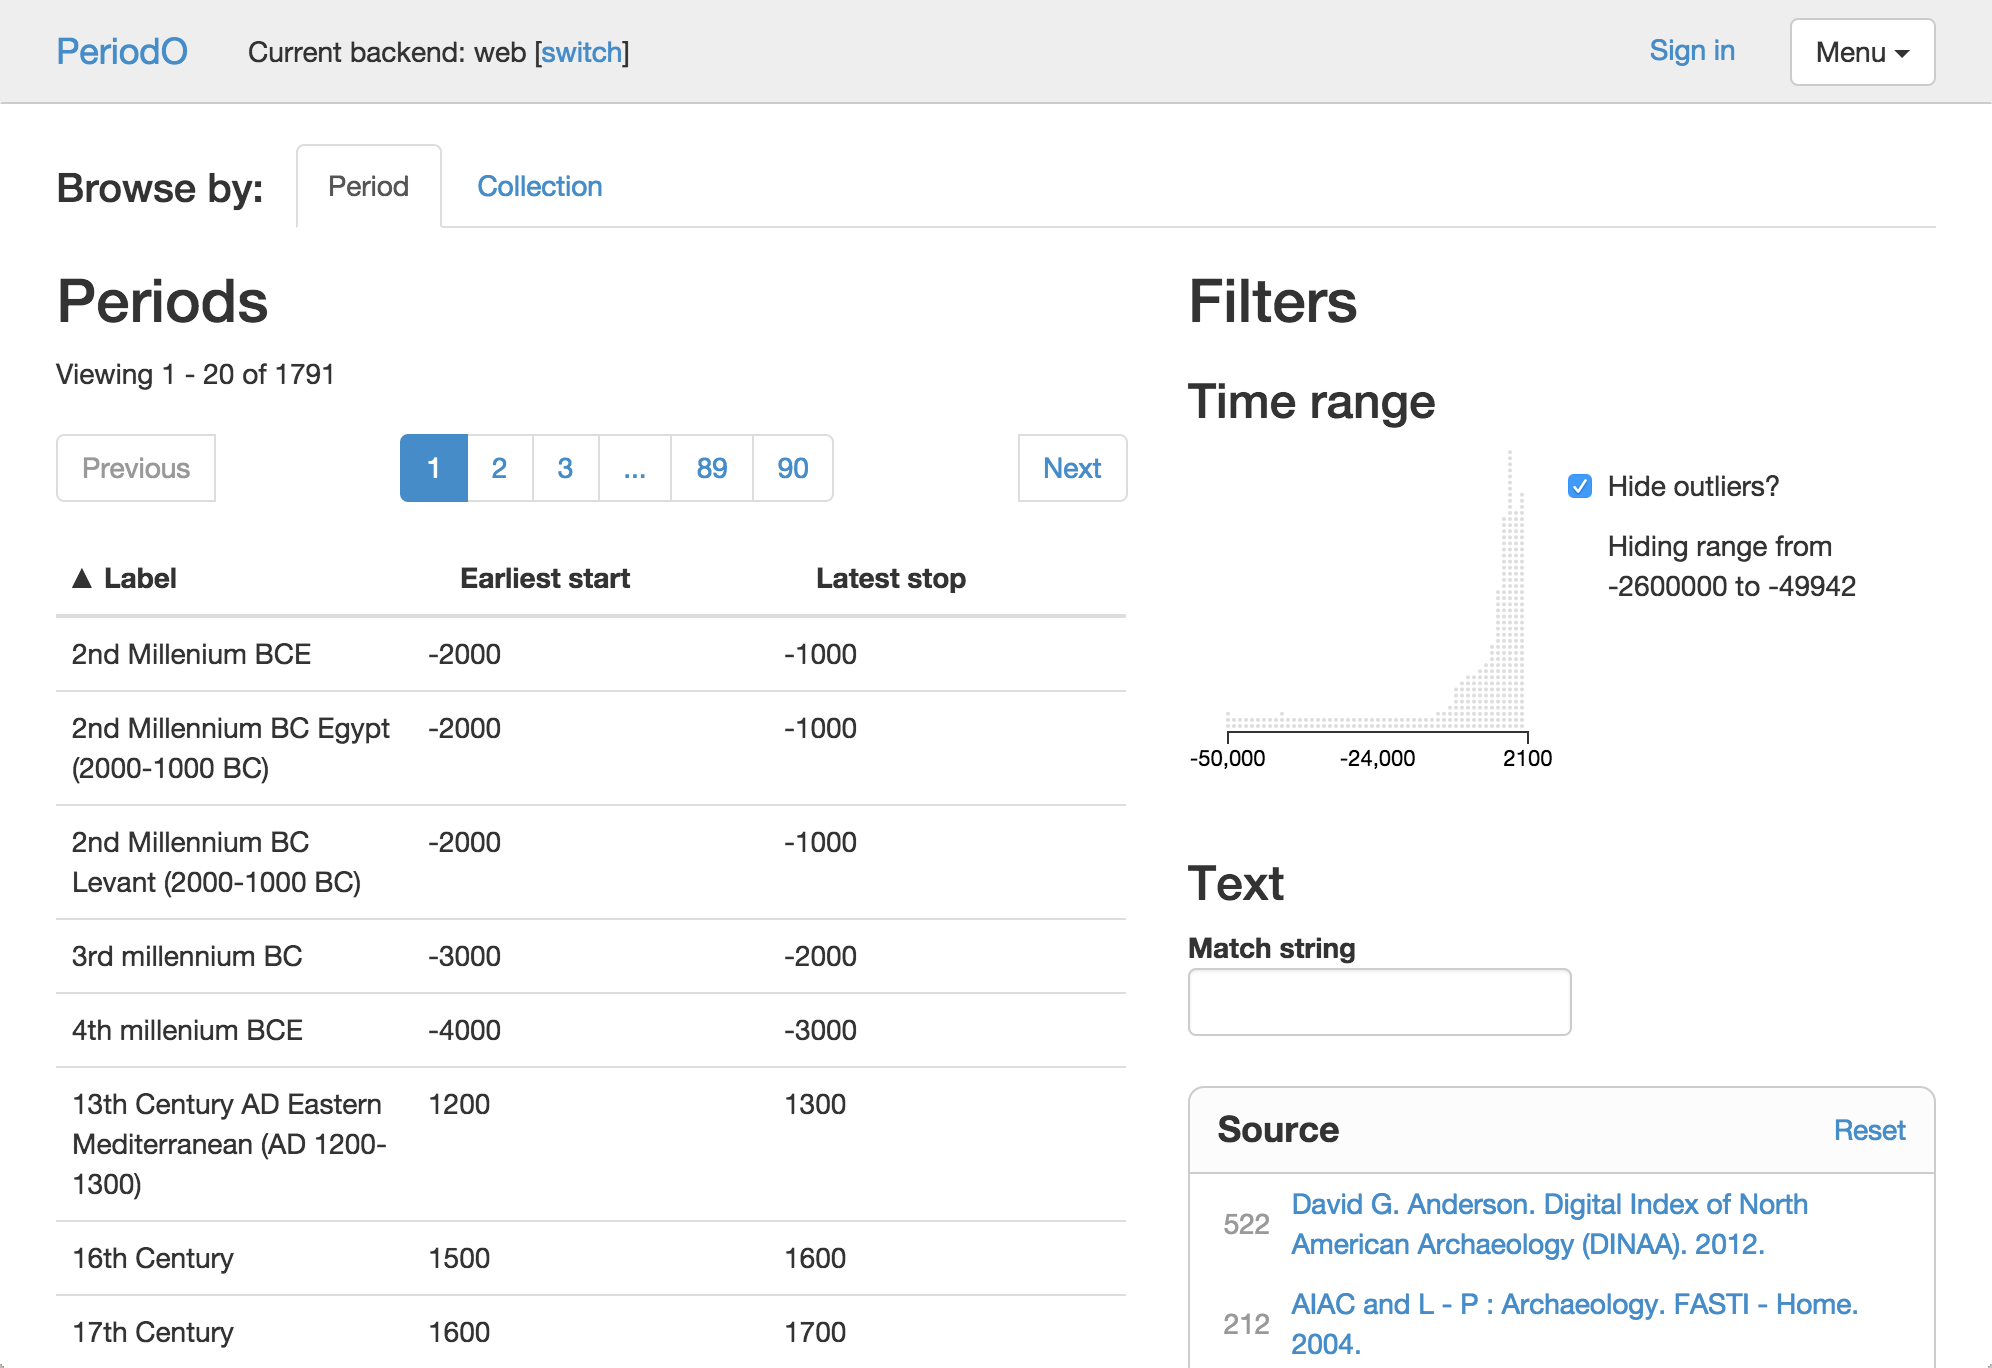
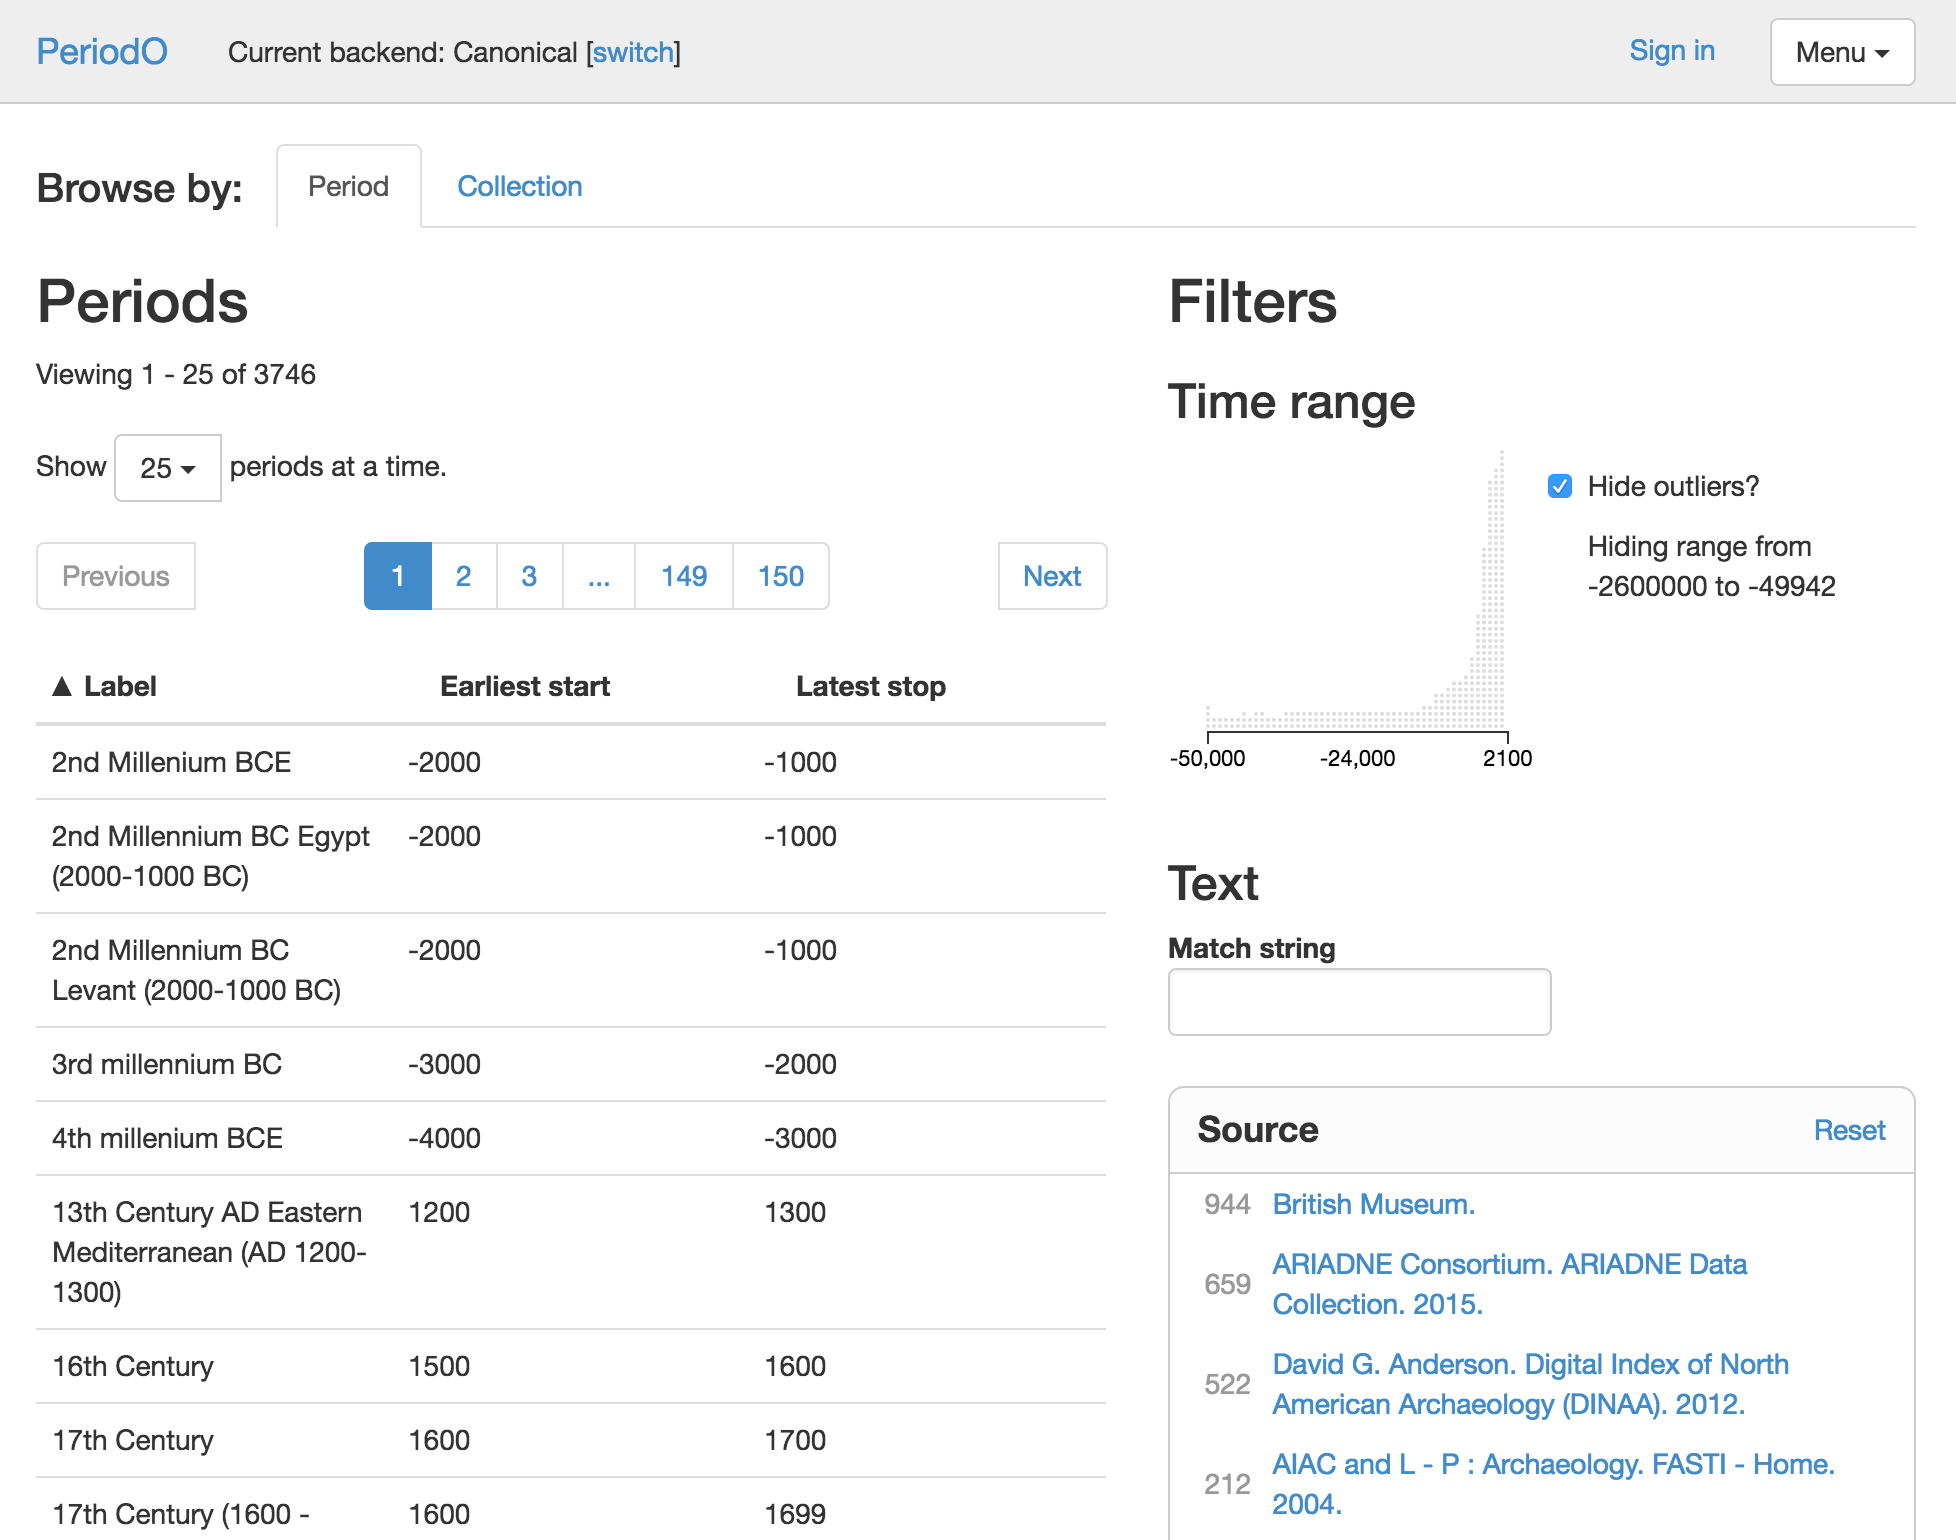
Completed user guide.

diff --git a/templates/guide.html b/templates/guide.html
@@ -1,5 +1,3 @@
-<p style="margin-left: 20px">We'll be adding new sections to this guide over the next several weeks—<a href="https://twitter.com/perio_do">follow us on Twitter</a> for updates.</p>
-<!--
 <nav class="toc" role="navigation">
 <ul>
 $for(sections)$
@@ -7,7 +5,7 @@ $for(sections)$
 $endfor$
 </ul>
 </nav>
--->
+
 <div>
   $for(sections)$
   <section>

diff --git a/css/default.css b/css/default.css
@@ -107,6 +107,20 @@ section, .references {
 }
 .screenshot {
     border: 1px solid #c1c1c1;
+    margin: 20px 0;
+}
+.left {
+    float: left;
+    margin-right: 20px;
+}
+.right {
+    float: right;
+    margin-left: 20px;
+}
+.center {
+    display: block;
+    margin-left: auto;
+    margin-right: auto;
 }
 footer {
     padding: 20px; 

diff --git a/guide/2-finding-and-comparing-period-definitions.md b/guide/2-finding-and-comparing-period-definitions.md
@@ -1,0 +1,35 @@
+---
+title: Finding and comparing period definitions
+slug: finding-and-comparing-period-definitions
+---
+
+In the browsing interface it is possible to find and compare period definitions by applying one of several filters (time range, source, language, spatial coverage) or searching by text string. 
+
+<img class="screenshot left" alt="Filtering period definitions by time range." src="/images/filter-by-time.png" width="203">
+
+To filter by time range, on the right side of the browser window hover over the x-axis of the time range chart to find the desired ISO year. Drag your cursor to select a desired time range, and your selection will appear highlighted in gray in the time range. Period definitions which fall within this time range appear on the left side of the browser window under **Periods**, where you can view between 10 and 250 results at a time. Note that these results remain until you click back in the time range chart to reset the dataset. 
+
+<img class="screenshot right" alt="Filtering period definitions by source." src="/images/filter-by-source.png" width="363">
+
+To filter by source, locate the desired contributor in the **Source** box (which provides author, collection name, and year of creation/publication): these are listed in descending order by the number of periods contributed to the PeriodO dataset. You can also use `Ctrl+F` to find a contributor by name. Clicking on the desired collection retrieves and displays all periods in that collection, and moves this collection to the top of the **Source** list. Clicking **Reset** on the right of the box causes the interface to display all records in the dataset again. 
+
+<img class="screenshot left" alt="Filtering period definitions by language." src="/images/filter-by-language.png" width="363">
+
+To filter by language, locate the desired language in the **Language** box: these are listed in descending order by the number of periods contributed to the dataset. You can also use `Ctrl+F` to find a language by name. Clicking on the desired language retrieves and displays all periods entered in that language script, and moves this language to the top of the **Language** list. Clicking **Reset** on the right of the box causes the interface to display all records in the dataset again. 
+
+<img class="screenshot right" alt="Filtering period definitions by spatial coverage." src="/images/filter-by-spatial-coverage.png" width="360">
+
+To filter by spatial coverage (geographic location), locate the desired location in the **Spatial coverage** box: these are listed in descending order by the number of periods contributed to the dataset. You can also use `Ctrl+F` to find a spatial coverage by name. These terms reflect the labels used by the source to describe the period’s spatial coverage, NOT the coordinate-based geographic entity with which we have associated them. The large quantity of `undefined` values reflect records that could clearly be associated with a modern national boundary, but for which the source did not provide a verbal label for spatial coverage (most of these are from Fasti Online and the British Museum). Clicking on the desired spatial coverage label retrieves and displays all periods associated with that label, and moves this term to the top of the **Spatial coverage** list. Clicking **Reset** on the right of the box auses the interface to display all records in the dataset again.
+
+<img class="screenshot left" alt="Filtering period definitions by text search." src="/images/filter-by-text-search.png" width="217">
+
+To search by text string, enter your text in the search box. Periods containing this text string will display on the left under the **Periods** list.
+
+Results sets derived from filtering or searching can also be recursively filtered using all of the same methods as above, until only one result is left.
+
+A results set can be ordered by label, earliest start, and latest stop, just like the full dataset. This is the simplest way to compare date ranges between period definitions. Clicking within any individual result expands the full period definition, including more detailed information including spatial coverage, permalink for the definition and its collection, and notes.
+
+<img class="screenshot center" alt="Expanding a period definition within a list of results." src="/images/expanding-a-period-definition.png" width="554">
+
+
+

diff --git a/guide/5-creating-a-local-database.md b/guide/5-creating-a-local-database.md
@@ -1,0 +1,39 @@
+---
+title: Creating a local database
+slug: creating-a-local-database
+---
+!
+To edit periods and period collections, you must create a local database. To do this, first **Switch backends**, and then under **Add backend** select **IndexedDB (editable, stored locally)**, write in a name for your local database, and click **Add**.
+
+<img class="screenshot left" alt="Switching backends via the menu." src="/images/switching-backends.png" width="205">
+
+<img class="screenshot" alt="Adding a local, editable backend." src="/images/adding-a-backend.png" width="321" style="margin-top: 0">
+
+You should see your newly added IndexedDB backend appear in the list of backends. Click the name of your backend to switch to it.
+
+<img class="screenshot center" alt="Listing all available backends." src="/images/listing-backends.png" width="474">
+
+Initially your new local database (the backend you just created) will be empty, to fill it with some period definitions, go to the upper-right **Menu** drop-down and select **Get data from server or file**.
+
+<img class="screenshot center" alt="Getting period data from a server or file." src="/images/getting-data.png" width="756">
+
+<img class="screenshot right" alt="Fetching period data from the canonical server." src="/images/fetch-data.png" width="386">
+
+Next you should see the **Sync** window. With `https://test.perio.do/` supplied as the **server URL** option, click **Fetch** which will retrieve all the period collections from the PeriodO server. From this list of **New period collections**, find your desired collection(s) and check the box to the left of their listing. Checking one or more boxes enables the **Continue** button at the top of the window. Click this button to confirm your selection.
+
+<img class="screenshot" alt="New period collections fetched from a server or file." src="/images/new-period-collections.png" width="738">
+
+The next screen displays your selected collections; ensure all that you need are listed and then under **Accept changes?** click **Yes**. 
+
+<img class="screenshot" alt="Accepting new period collections fetched from a server or file." src="/images/accept-changes.png" width="742">
+
+You have now made a local, editable database containing the periods in the selected collections. Next, at the top beside **Current backend** click **switch** to return to the backend selection page. Click on the name of your local database, and you will see a list of all the periods in the database. From here, you can click the **Browse by Collection** tab to make edits or additions. Click the collection you wish to edit. You will see the collection page, now with two new options to **Edit collection details** (this will edit the collection-level description) or **Add period** (to add a new period definition to this particular collection). 
+
+<img class="screenshot center" alt="Viewing an editable period collection." src="/images/editable-collection.png" width="743">
+
+You can also edit existing periods: locate the desired period in the collection, click on its row to expand the data entry, and find the blue **Edit** button beside the period. Clicking on this button will open a form using which you can edit the period definition. 
+
+<img class="screenshot center" alt="Viewing an editable period definition." src="/images/editable-definition.png" width="737">
+
+Once you have completed your edits, click the blue **Save** button at the bottom left and you will return to the collection. At any time, you can export your local database as a file by clicking **switch** at the top of the browser window to return to the backend selection screen, and clicking the "disc with a down arrow" icon to download the structured data as a JSON-LD file.
+

diff --git a/guide/1-browse-the-canonical-dataset.md b/guide/1-browse-the-canonical-dataset.md
@@ -11,13 +11,13 @@ When you first load the client, you are prompted to select a *backend*. A backen
   
   * A *file* backend loads data from a local file. Data loaded from a file backend is also browse-only.
   
-  * An *IndexedDB* backend loads data from a [local database](https://developer.mozilla.org/en-US/docs/Web/API/IndexedDB_API) running in your browser. Data in an IndexedDB backend can be edited as well as browsed. (Note that Safari does not yet have full support for IndexedDB.)
+  * An *IndexedDB* backend loads data from a [local database](#creating-a-local-database) running in your browser. Data in an IndexedDB backend can be edited as well as browsed. (Note that Safari does not yet have full support for IndexedDB.)
 
 Initially you should see only one backend, a web backend pointing to the canonical PeriodO dataset (at [`http://n2t.net/ark:/99152/p0d.json`](http://n2t.net/ark:/99152/p0d.json)).
 
-<img class="screenshot" alt="Selecting a backend for the PeriodO client." src="/images/select-backends.png" width="768">
+<img class="screenshot center" alt="Selecting a backend for the PeriodO client." src="/images/select-backends.png" width="738">
 
-Clicking on the "disc with a down arrow" icon will download the data from the canonical web backend to a local file. Clicking on the name of the backend (which here is just "web") will load the data from the canonical backend into the client, and you should see a browsing interface like this:
+Clicking on the "disc with a down arrow" icon will download the data from the canonical web backend to a local file. Clicking on the name of the backend ("Canonical") will load the data from the canonical backend into the client, and you should see a browsing interface like this:
 
 <img class="screenshot" alt="Selecting a backend for the PeriodO client." src="/images/browse-canonical-dataset.png" width="768">
 

diff --git a/guide/3-getting-structured-data-for-a-period-collection.md b/guide/3-getting-structured-data-for-a-period-collection.md
@@ -1,0 +1,20 @@
+---
+title: Getting structured data for a period collection
+slug: getting-structured-data-for-a-period-collection
+---
+
+The entire PeriodO dataset can be downloaded as a JSON-LD file from the **Switch backends** page (click on the disk icon). You can also download any datasets you have created in a local database from this page as a JSON-LD file (see [Creating a local database](#creating-a-local-database) below). This can be very useful if you wish to share your period definitions with someone else, or if you need structured data for your own visualization or data management. 
+
+<img class="screenshot left" alt="Switching backends via the menu." src="/images/switching-backends.png" width="205">
+
+<img class="screenshot" alt="Saving a dataset to a file." src="/images/saving-a-dataset.png" width="480">
+
+You can also view structured data for an individual collection from the page for that collection. At the top of the browser window, which shows **Browse by Period** by default, click the **Browse by Collection** tab. This will list all of the period collections.
+
+<img class="screenshot" alt="Browsing period collections." src="/images/browsing-collections.png" width="768">
+
+Locate the desired collection (20 are currently viewable at once) by scrolling down or using `Ctrl+F`, and clicking on the source title. This brings you to the page for this collection, which displays collection-level information at the top followed by individual period definitions below. These periods can be sorted by label, earliest start, or latest stop.
+
+<img class="screenshot" alt="Looking at a single period collection." src="/images/period-collection.png" width="768">
+
+

diff --git a/guide/7-submitting-a-patch.md b/guide/7-submitting-a-patch.md
@@ -1,0 +1,18 @@
+---
+title: Submitting a patch
+slug: submitting-a-patch
+---
+
+We welcome contributions and enhancements ("patches") to the canonical PeriodO dataset. To submit a patch, you must first register for a free [ORCID](http://orcid.org) so that we can credit you properly. Once you have an ORCID, click **Sign in** at the top of the browser window. You will see a link to **Create or Connect your ORCID iD**. 
+
+<img class="screenshot" alt="Signing in via ORCID." src="/images/sign-in.png" width="742">
+
+Clicking this link will open a popup window. From this window you can sign into the ORCID website and grant permission to PeriodO to read your public information (such as your name). 
+
+<img class="screenshot center" alt="The ORCID authorization process." src="/images/orcid-authorization.png" width="612">
+
+<img class="screenshot right" alt="Submitting a patch." src="/images/submit-patch.png" width="322">
+
+Once you are successfully signed in, you should see your name at the top of the PeriodO window. Now you can open a [local database](#creating-a-local-database) that has the changes or additions that you would like to contribute. Under the **Menu** button in the upper right of the browser window, select **Submit patch to server** and submit your patch. Check that your patch was successfully submitted by selecting **Review patches** (again, under **Menu**) to see a list of the patches submitted to server.
+
+<div style="clear: both"></div>

diff --git a/guide/4-finding-and-using-a-uri-for-a-period-or-collection.md b/guide/4-finding-and-using-a-uri-for-a-period-or-collection.md
@@ -1,0 +1,15 @@
+---
+title: Finding and using a URI for a period or collection
+slug: finding-and-using-a-uri-for-a-period-or-collection
+---
+
+Every period and collection that is part of the canonical dataset has been assigned a stable, permanent URI. When viewing the canonical dataset, if you are browsing by period, click on any period to expand the data display; this will show the permalink for the period. 
+
+<img class="screenshot center" alt="Finding the permalink for a period definition." src="/images/period-permalink.png" width="549">
+
+Right-click or highlight to copy this link. Clicking on **In collection** will bring you to the collection page, at the top of which is the permalink for the collection. Right-click or highlight to copy this link.
+
+<img class="screenshot center" alt="Finding the permalink for a period collection." src="/images/collection-permalink.png" width="748">
+
+Use PeriodO permalinks for citation and sharing: ensure that your period or collection URI from PeriodO always starts with `http://n2t.net/ark:/99152/p0`.
+

diff --git a/guide/6-sharing-a-local-database.md b/guide/6-sharing-a-local-database.md
@@ -1,0 +1,9 @@
+---
+title: Sharing a local database
+slug: sharing-a-local-database
+---
+
+<img class="screenshot right" alt="Loading period data from a file." src="/images/loading-from-file.png" width="389">
+
+Once you have created a local database and downloaded it following [the steps above](#creating-a-local-database), you can share your JSON-LD file with others. You can also make further edits to your JSON file(s), or edit a file that someone else has shared with you. Under the **Menu** button in the upper-right of the browser window, select **Get data from server or file**. Next, under **PeriodO data file** click **Choose file** and upload the JSON file you wish to load and edit. Once you see the data in your file, you can follow [the steps above](#creating-a-local-database) to edit your period collection and definitions. 
+
